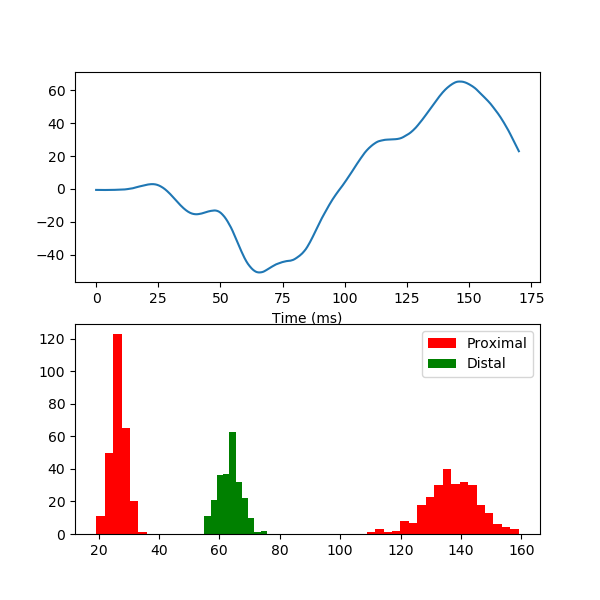
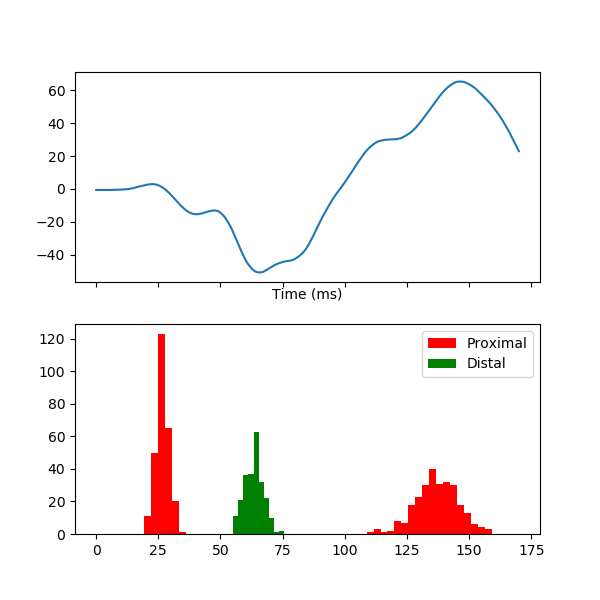
Make install

diff --git a/searchindex.js b/searchindex.js
@@ -1,1 +1,1 @@
-Search.setIndex({docnames:["api","auto_examples/index","auto_examples/plot_simulate_alpha","auto_examples/plot_simulate_evoked","generated/mne_neuron.Network","generated/mne_neuron.params.Params","generated/mne_neuron.simulate_dipole","index"],envversion:55,filenames:["api.rst","auto_examples/index.rst","auto_examples/plot_simulate_alpha.rst","auto_examples/plot_simulate_evoked.rst","generated/mne_neuron.Network.rst","generated/mne_neuron.params.Params.rst","generated/mne_neuron.simulate_dipole.rst","index.rst"],objects:{"mne_neuron.Network":{aggregate_currents:[4,1,1,""],gid_to_type:[4,1,1,""],movecellstopos:[4,1,1,""],plot_input:[4,1,1,""],plot_spikes:[4,1,1,""],state_init:[4,1,1,""]},"mne_neuron.params":{Params:[5,0,1,""]},"mne_neuron.params.Params":{__getitem__:[5,1,1,""],__repr__:[5,1,1,""],copy:[5,1,1,""]},mne_neuron:{Network:[4,0,1,""],simulate_dipole:[6,2,1,""]}},objnames:{"0":["py","class","Python class"],"1":["py","method","Python method"],"2":["py","function","Python function"]},objtypes:{"0":"py:class","1":"py:method","2":"py:function"},terms:{"26e":[2,3],"class":[4,5],"default":[2,3],"final":[3,7],"import":[2,3,7],"new":4,"return":[4,5,6],"true":4,And:2,Jas:[2,3],The:[4,5,6],Then:[2,3],Use:7,__create_all_src:[],__file__:[2,3],__getitem__:5,__gid_assign:[],__init__:[],__repr__:5,_biophys:[],activ:[2,4],addition:7,admin:7,agg:2,aggregate_curr:4,all:[1,2],alpha:1,also:3,anaconda:7,ani:7,api:7,append:[],argument:[],author:[2,3],auto_examples_jupyt:1,auto_examples_python:1,avail:7,axes:3,axi:[2,4],base:7,baselin:4,basket:[],bool:4,call:[],can:[2,3,7],cell:[4,6],celsiu:[2,3],channel:7,charact:3,check:7,cleaner:7,click:[2,3],closer:4,code:[1,2,3,7],com:[2,3,7],compil:7,comput:7,conda:7,conduct:2,confirm:2,connect:6,contributor:7,copi:5,creat:[4,7],custom:7,demonstr:[2,3],densiti:[],depend:[],desktop:[],dict:4,dipol:[1,2,6],dipole_scalefctr:[2,3],dipole_smooth_win:[2,3],directori:[2,3,7],dirnam:[2,3],displai:5,distribut:7,distribution_dist:[2,3],distribution_prox:[2,3],download:[1,2,3],dpl:[2,3,6],dt_evprox0_evdist:[2,3],dt_evprox0_evprox1:[2,3],each:4,earli:7,edu:7,error:7,events_per_cycle_dist:[2,3],events_per_cycle_prox:[2,3],everyth:7,evok:3,exampl:[1,2,3],experi:6,f_input_dist:[2,3],f_input_prox:[2,3],f_max_spec:[2,3],f_stdev_dist:[2,3],f_stdev_prox:[2,3],few:2,fig:[3,4],figsiz:3,figur:4,file:[2,3,5],filter:3,fine:7,first:7,flag:7,freq:2,frequenc:2,from:[2,3,4,7],full:[2,3],galleri:[1,2,3],gbar:2,gbar_ev:2,gbar_evdist_1_l2basket_ampa:[2,3],gbar_evdist_1_l2basket_nmda:[2,3],gbar_evdist_1_l2pyr_ampa:[2,3],gbar_evdist_1_l2pyr_nmda:[2,3],gbar_evdist_1_l5pyr_ampa:[2,3],gbar_evdist_1_l5pyr_nmda:[2,3],gbar_evprox_1_l2basket_ampa:[2,3],gbar_evprox_1_l2basket_nmda:[2,3],gbar_evprox_1_l2pyr_ampa:[2,3],gbar_evprox_1_l2pyr_nmda:[2,3],gbar_evprox_1_l5basket_ampa:[2,3],gbar_evprox_1_l5basket_nmda:[2,3],gbar_evprox_1_l5pyr_ampa:[2,3],gbar_evprox_1_l5pyr_nmda:[2,3],gbar_evprox_2_l2basket_ampa:[2,3],gbar_evprox_2_l2basket_nmda:[2,3],gbar_evprox_2_l2pyr_ampa:[2,3],gbar_evprox_2_l2pyr_nmda:[2,3],gbar_evprox_2_l5basket_ampa:[2,3],gbar_evprox_2_l5basket_nmda:[2,3],gbar_evprox_2_l5pyr_ampa:[2,3],gbar_evprox_2_l5pyr_nmda:[2,3],gbar_l2basket_l2basket:[2,3],gbar_l2basket_l2pyr_gabaa:[2,3],gbar_l2basket_l2pyr_gabab:[2,3],gbar_l2basket_l5pyr:[2,3],gbar_l2pyr_l2basket:[2,3],gbar_l2pyr_l2pyr_ampa:[2,3],gbar_l2pyr_l2pyr_nmda:[2,3],gbar_l2pyr_l5basket:[2,3],gbar_l2pyr_l5pyr:[2,3],gbar_l5basket_l5basket:[2,3],gbar_l5basket_l5pyr_gabaa:[2,3],gbar_l5basket_l5pyr_gabab:[2,3],gbar_l5pyr_l5basket:[2,3],gbar_l5pyr_l5pyr_ampa:[2,3],gbar_l5pyr_l5pyr_nmda:[2,3],gener:[1,2,3],get_vsoma:4,gid:4,gid_to_typ:4,github:7,github_repo:[],give:7,given:6,gmail:[2,3],graphic:7,ham:2,handl:4,have:7,here:[2,3,7],hh2:[],histogram:4,hnn:7,hoc:[2,3],home:[],how:[2,3,6],howev:7,http:7,inc_evinput:[2,3],inde:2,initi:4,input:[2,4],input_dist_a_delay_l2:[2,3],input_dist_a_delay_l5:[2,3],input_dist_a_weight_l2basket_ampa:[2,3],input_dist_a_weight_l2basket_nmda:[2,3],input_dist_a_weight_l2pyr_ampa:[2,3],input_dist_a_weight_l2pyr_nmda:[2,3],input_dist_a_weight_l5pyr_ampa:[2,3],input_dist_a_weight_l5pyr_nmda:[2,3],input_prox_a_delay_l2:[2,3],input_prox_a_delay_l5:[2,3],input_prox_a_weight_l2basket_ampa:[2,3],input_prox_a_weight_l2basket_nmda:[2,3],input_prox_a_weight_l2pyr_ampa:[2,3],input_prox_a_weight_l2pyr_nmda:[2,3],input_prox_a_weight_l5basket_ampa:[2,3],input_prox_a_weight_l5basket_nmda:[2,3],input_prox_a_weight_l5pyr_ampa:[2,3],input_prox_a_weight_l5pyr_nmda:[2,3],insert:[],instanc:[4,6],instruct:7,integr:4,interfac:7,ionic:7,ipynb:[2,3],issu:7,itonic_a_l2basket:[2,3],itonic_a_l2pyr_soma:[2,3],itonic_a_l5basket:[2,3],itonic_a_l5pyr_soma:[2,3],itonic_t0_l2basket:[2,3],itonic_t0_l2pyr_soma:[2,3],itonic_t0_l5basket:[2,3],itonic_t0_l5pyr_soma:[2,3],itonic_t_l2basket:[2,3],itonic_t_l2pyr_soma:[2,3],itonic_t_l5basket:[2,3],itonic_t_l5pyr_soma:[2,3],its:7,jas:[2,3],jasmainak:7,join:[2,3],json:[2,3,5],jupyt:[1,2,3],kei:5,l2basket:[],l2basket_gauss_a_weight:[2,3],l2basket_gauss_mu:[2,3],l2basket_gauss_sigma:[2,3],l2basket_pois_a_weight_ampa:[2,3],l2basket_pois_a_weight_nmda:[2,3],l2basket_pois_lamtha:[2,3],l2pyr_ampa_:[2,3],l2pyr_ampa_tau1:[2,3],l2pyr_ampa_tau2:[2,3],l2pyr_apical1_diam:[2,3],l2pyr_apical1_l:[2,3],l2pyr_apicaloblique_diam:[2,3],l2pyr_apicaloblique_l:[2,3],l2pyr_apicaltrunk_diam:[2,3],l2pyr_apicaltrunk_l:[2,3],l2pyr_apicaltuft_diam:[2,3],l2pyr_apicaltuft_l:[2,3],l2pyr_basal1_diam:[2,3],l2pyr_basal1_l:[2,3],l2pyr_basal2_diam:[2,3],l2pyr_basal2_l:[2,3],l2pyr_basal3_diam:[2,3],l2pyr_basal3_l:[2,3],l2pyr_dend_cm:[2,3],l2pyr_dend_el_hh2:[2,3],l2pyr_dend_gbar_km:[2,3],l2pyr_dend_gkbar_hh2:[2,3],l2pyr_dend_gl_hh2:[2,3],l2pyr_dend_gnabar_hh2:[2,3],l2pyr_dend_ra:[2,3],l2pyr_gabaa_:[2,3],l2pyr_gabaa_tau1:[2,3],l2pyr_gabaa_tau2:[2,3],l2pyr_gabab_:[2,3],l2pyr_gabab_tau1:[2,3],l2pyr_gabab_tau2:[2,3],l2pyr_gauss_a_weight:[2,3],l2pyr_gauss_mu:[2,3],l2pyr_gauss_sigma:[2,3],l2pyr_nmda_:[2,3],l2pyr_nmda_tau1:[2,3],l2pyr_nmda_tau2:[2,3],l2pyr_pois_a_weight_ampa:[2,3],l2pyr_pois_a_weight_nmda:[2,3],l2pyr_pois_lamtha:[2,3],l2pyr_soma:3,l2pyr_soma_cm:[2,3],l2pyr_soma_diam:[2,3],l2pyr_soma_el_hh2:[2,3],l2pyr_soma_gbar_km:[2,3],l2pyr_soma_gkbar_hh2:[2,3],l2pyr_soma_gl_hh2:[2,3],l2pyr_soma_gnabar_hh2:[2,3],l2pyr_soma_l:[2,3],l2pyr_soma_ra:[2,3],l5basket_gauss_a_weight:[2,3],l5basket_gauss_mu:[2,3],l5basket_gauss_sigma:[2,3],l5basket_pois_a_weight_ampa:[2,3],l5basket_pois_a_weight_nmda:[2,3],l5basket_pois_lamtha:[2,3],l5pyr_ampa_:[2,3],l5pyr_ampa_tau1:[2,3],l5pyr_ampa_tau2:[2,3],l5pyr_apical1_diam:[2,3],l5pyr_apical1_l:[2,3],l5pyr_apical2_diam:[2,3],l5pyr_apical2_l:[2,3],l5pyr_apicaloblique_diam:[2,3],l5pyr_apicaloblique_l:[2,3],l5pyr_apicaltrunk_diam:[2,3],l5pyr_apicaltrunk_l:[2,3],l5pyr_apicaltuft_diam:[2,3],l5pyr_apicaltuft_l:[2,3],l5pyr_basal1_diam:[2,3],l5pyr_basal1_l:[2,3],l5pyr_basal2_diam:[2,3],l5pyr_basal2_l:[2,3],l5pyr_basal3_diam:[2,3],l5pyr_basal3_l:[2,3],l5pyr_dend_cm:[2,3],l5pyr_dend_el_hh2:[2,3],l5pyr_dend_gbar_ar:[2,3],l5pyr_dend_gbar_ca:[2,3],l5pyr_dend_gbar_cat:[2,3],l5pyr_dend_gbar_kca:[2,3],l5pyr_dend_gbar_km:[2,3],l5pyr_dend_gkbar_hh2:[2,3],l5pyr_dend_gl_hh2:[2,3],l5pyr_dend_gnabar_hh2:[2,3],l5pyr_dend_ra:[2,3],l5pyr_dend_taur_cad:[2,3],l5pyr_gabaa_:[2,3],l5pyr_gabaa_tau1:[2,3],l5pyr_gabaa_tau2:[2,3],l5pyr_gabab_:[2,3],l5pyr_gabab_tau1:[2,3],l5pyr_gabab_tau2:[2,3],l5pyr_gauss_a_weight:[2,3],l5pyr_gauss_mu:[2,3],l5pyr_gauss_sigma:[2,3],l5pyr_nmda_:[2,3],l5pyr_nmda_tau1:[2,3],l5pyr_nmda_tau2:[2,3],l5pyr_pois_a_weight_ampa:[2,3],l5pyr_pois_a_weight_nmda:[2,3],l5pyr_pois_lamtha:[2,3],l5pyr_soma_cm:[2,3],l5pyr_soma_diam:[2,3],l5pyr_soma_el_hh2:[2,3],l5pyr_soma_gbar_ar:[2,3],l5pyr_soma_gbar_ca:[2,3],l5pyr_soma_gbar_cat:[2,3],l5pyr_soma_gbar_kca:[2,3],l5pyr_soma_gbar_km:[2,3],l5pyr_soma_gkbar_hh2:[2,3],l5pyr_soma_gl_hh2:[2,3],l5pyr_soma_gnabar_hh2:[2,3],l5pyr_soma_l:[2,3],l5pyr_soma_ra:[2,3],l5pyr_soma_taur_cad:[2,3],last:[],latest:7,leaner:7,let:[2,3],lib:[],libnrnmech:[],like:3,line:[],load_fil:[2,3],lookup:4,lot:3,mainak:[2,3],make:7,master:7,matplotlib:[2,3,4,7],mean:2,mechan:7,messag:7,method:[4,5],minut:[2,3],mne:[2,3],mne_neuron:[0,2,3],mne_neuron_root:[2,3],modul:[],moment:7,most:[],move:4,movecellstopo:4,must:4,n_fft:2,n_pyr_i:[2,3],n_pyr_x:[2,3],n_trial:[2,3],name:[],need:7,net:[2,3,6],network:[2,3,6],networkonnod:[],neuron:[2,3],neymotin:[2,3],nfft:2,nice:5,nightli:7,node:[],none:4,normal:[2,3],notebook:[1,2,3],noverlap:2,now:[2,3],nperseg:2,nrn_load_dll:[],nrnivmodl:7,numpi:[2,7],numspikes_evdist_1:[2,3],numspikes_evprox_1:[2,3],numspikes_evprox_2:[2,3],object:[4,5,6],off:7,out:[2,3],param:[2,3,4],paramet:[2,3,4,5,6],params_fnam:[2,3,5],paristech:[2,3],path:[2,3],pattern:2,pip:7,plot:[2,3,4],plot_input:[3,4],plot_simulate_alpha:2,plot_simulate_evok:3,plot_spik:[3,4],plt:[2,3],pos:[],posit:4,post:4,print:[2,3],privileg:7,prng_seedcore_evdist_1:[2,3],prng_seedcore_evprox_1:[2,3],prng_seedcore_evprox_2:[2,3],prng_seedcore_extgauss:[2,3],prng_seedcore_extpoi:[2,3],prng_seedcore_input_dist:[2,3],prng_seedcore_input_prox:[2,3],process:7,progress:7,project:[],provid:7,psd:2,pyplot:[2,3],python:[1,2,3,7],rank:[],read:[2,3],recent:[],recommend:7,relat:2,repeats_dist:[2,3],repeats_prox:[2,3],repo:7,repositori:7,revers:4,run:[2,3,4],runtimeerror:[],sam:[2,3],samnemo:[2,3],save_fig:[2,3],save_spec_data:[2,3],save_vsoma:[2,3],scipi:[2,7],script:[2,3],second:[2,3],self:[],set_gid2nod:[],setup:[2,3],sfreq:2,shallow:5,should:7,show:[2,4],sigma_t_evdist_1:[2,3],sigma_t_evprox_1:[2,3],sigma_t_evprox_2:[2,3],signal:2,sim_prefix:[2,3],simpl:7,simul:[0,1,6],simulate_dipol:[2,3],soma:[],sourc:[1,2,3],specif:[],specifi:6,spectrogram:2,sphinx:[1,2,3],spike:[3,4],state:4,state_init:4,stdrun:[2,3],step:7,str:5,style:3,subplot:3,subset:5,support:7,sync_evinput:[2,3],t0_input_dist:[2,3],t0_input_prox:[2,3],t0_input_stdev_dist:[2,3],t0_input_stdev_prox:[2,3],t0_poi:[2,3],t_evdist_1:[2,3],t_evprox_1:[2,3],t_evprox_2:[2,3],t_poi:[2,3],telecom:[2,3],thi:[2,3,4,7],threshold:[2,3],time:[2,3],total:[2,3],traceback:[],tracker:7,tstop:[2,3],tstop_input_dist:[2,3],tstop_input_prox:[2,3],type:4,unix:3,updat:2,upgrad:7,use:7,used:4,user:7,using:[2,3,7],valueerror:[],veri:7,version:7,want:7,wave:1,waveform:3,welcom:7,what:2,which:7,wildcard:3,window:2,wire:4,work:7,would:7,x86_64:[],xlabel:2,xlim:2,yale:7,ylabel:2,you:7,zip:1,zipbal:7},titles:["API Documentation","&lt;no title&gt;","Simulate alpha waves","Simulate dipole","mne_neuron.Network","mne_neuron.params.Params","mne_neuron.simulate_dipole","mne-neuron"],titleterms:{alpha:2,api:0,bug:7,depend:7,dipol:3,document:0,instal:7,mne:7,mne_neuron:[4,5,6],network:4,neuron:7,param:5,report:7,simul:[2,3],simulate_dipol:6,wave:2}})
+Search.setIndex({docnames:["api","auto_examples/index","auto_examples/plot_simulate_alpha","auto_examples/plot_simulate_evoked","generated/mne_neuron.Network","generated/mne_neuron.params.Params","generated/mne_neuron.simulate_dipole","index"],envversion:55,filenames:["api.rst","auto_examples/index.rst","auto_examples/plot_simulate_alpha.rst","auto_examples/plot_simulate_evoked.rst","generated/mne_neuron.Network.rst","generated/mne_neuron.params.Params.rst","generated/mne_neuron.simulate_dipole.rst","index.rst"],objects:{"mne_neuron.Network":{aggregate_currents:[4,1,1,""],gid_to_type:[4,1,1,""],movecellstopos:[4,1,1,""],plot_input:[4,1,1,""],plot_spikes:[4,1,1,""],state_init:[4,1,1,""]},"mne_neuron.params":{Params:[5,0,1,""]},"mne_neuron.params.Params":{__getitem__:[5,1,1,""],__repr__:[5,1,1,""],copy:[5,1,1,""]},mne_neuron:{Network:[4,0,1,""],simulate_dipole:[6,2,1,""]}},objnames:{"0":["py","class","Python class"],"1":["py","method","Python method"],"2":["py","function","Python function"]},objtypes:{"0":"py:class","1":"py:method","2":"py:function"},terms:{"26e":[2,3],"class":[4,5],"default":[2,3],"final":[3,7],"import":[2,3,7],"new":4,"return":[4,5,6],"true":[3,4],And:2,Jas:[2,3],The:[4,5,6],Then:[2,3],Use:7,__create_all_src:[],__file__:[2,3],__getitem__:5,__gid_assign:[],__init__:[],__repr__:5,_biophys:[],activ:[2,4],addition:7,admin:7,agg:2,aggregate_curr:4,all:[1,2],alpha:1,also:3,anaconda:7,ani:7,api:7,append:[],argument:[],author:[2,3],auto_examples_jupyt:1,auto_examples_python:1,avail:7,axes:3,axi:[2,4],base:7,baselin:4,basket:[],bool:4,call:[],can:[2,3,7],cell:[4,6],celsiu:[2,3],channel:7,charact:3,check:7,cleaner:7,click:[2,3],closer:4,code:[1,2,3,7],com:[2,3,7],compil:7,comput:7,conda:7,conduct:2,confirm:2,connect:6,contributor:7,copi:5,creat:[4,7],custom:7,demonstr:[2,3],densiti:[],depend:[],desktop:[],dict:4,dipol:[1,2,6],dipole_scalefctr:[2,3],dipole_smooth_win:[2,3],directori:[2,3,7],dirnam:[2,3],displai:5,distribut:7,distribution_dist:[2,3],distribution_prox:[2,3],download:[1,2,3],dpl:[2,3,6],dt_evprox0_evdist:[2,3],dt_evprox0_evprox1:[2,3],each:4,earli:7,edu:7,error:7,events_per_cycle_dist:[2,3],events_per_cycle_prox:[2,3],everyth:7,evok:3,exampl:[1,2,3],experi:6,f_input_dist:[2,3],f_input_prox:[2,3],f_max_spec:[2,3],f_stdev_dist:[2,3],f_stdev_prox:[2,3],few:2,fig:[3,4],figsiz:3,figur:4,file:[2,3,5],filter:3,fine:7,first:7,flag:7,freq:2,frequenc:2,from:[2,3,4,7],full:[2,3],galleri:[1,2,3],gbar:2,gbar_ev:2,gbar_evdist_1_l2basket_ampa:[2,3],gbar_evdist_1_l2basket_nmda:[2,3],gbar_evdist_1_l2pyr_ampa:[2,3],gbar_evdist_1_l2pyr_nmda:[2,3],gbar_evdist_1_l5pyr_ampa:[2,3],gbar_evdist_1_l5pyr_nmda:[2,3],gbar_evprox_1_l2basket_ampa:[2,3],gbar_evprox_1_l2basket_nmda:[2,3],gbar_evprox_1_l2pyr_ampa:[2,3],gbar_evprox_1_l2pyr_nmda:[2,3],gbar_evprox_1_l5basket_ampa:[2,3],gbar_evprox_1_l5basket_nmda:[2,3],gbar_evprox_1_l5pyr_ampa:[2,3],gbar_evprox_1_l5pyr_nmda:[2,3],gbar_evprox_2_l2basket_ampa:[2,3],gbar_evprox_2_l2basket_nmda:[2,3],gbar_evprox_2_l2pyr_ampa:[2,3],gbar_evprox_2_l2pyr_nmda:[2,3],gbar_evprox_2_l5basket_ampa:[2,3],gbar_evprox_2_l5basket_nmda:[2,3],gbar_evprox_2_l5pyr_ampa:[2,3],gbar_evprox_2_l5pyr_nmda:[2,3],gbar_l2basket_l2basket:[2,3],gbar_l2basket_l2pyr_gabaa:[2,3],gbar_l2basket_l2pyr_gabab:[2,3],gbar_l2basket_l5pyr:[2,3],gbar_l2pyr_l2basket:[2,3],gbar_l2pyr_l2pyr_ampa:[2,3],gbar_l2pyr_l2pyr_nmda:[2,3],gbar_l2pyr_l5basket:[2,3],gbar_l2pyr_l5pyr:[2,3],gbar_l5basket_l5basket:[2,3],gbar_l5basket_l5pyr_gabaa:[2,3],gbar_l5basket_l5pyr_gabab:[2,3],gbar_l5pyr_l5basket:[2,3],gbar_l5pyr_l5pyr_ampa:[2,3],gbar_l5pyr_l5pyr_nmda:[2,3],gener:[1,2,3],get_vsoma:4,gid:4,gid_to_typ:4,github:7,github_repo:[],give:7,given:6,gmail:[2,3],graphic:7,ham:2,handl:4,have:7,here:[2,3,7],hh2:[],histogram:4,hnn:7,hoc:[2,3],home:[],how:[2,3,6],howev:7,http:7,inc_evinput:[2,3],inde:2,initi:4,input:[2,4],input_dist_a_delay_l2:[2,3],input_dist_a_delay_l5:[2,3],input_dist_a_weight_l2basket_ampa:[2,3],input_dist_a_weight_l2basket_nmda:[2,3],input_dist_a_weight_l2pyr_ampa:[2,3],input_dist_a_weight_l2pyr_nmda:[2,3],input_dist_a_weight_l5pyr_ampa:[2,3],input_dist_a_weight_l5pyr_nmda:[2,3],input_prox_a_delay_l2:[2,3],input_prox_a_delay_l5:[2,3],input_prox_a_weight_l2basket_ampa:[2,3],input_prox_a_weight_l2basket_nmda:[2,3],input_prox_a_weight_l2pyr_ampa:[2,3],input_prox_a_weight_l2pyr_nmda:[2,3],input_prox_a_weight_l5basket_ampa:[2,3],input_prox_a_weight_l5basket_nmda:[2,3],input_prox_a_weight_l5pyr_ampa:[2,3],input_prox_a_weight_l5pyr_nmda:[2,3],insert:[],instanc:[4,6],instruct:7,integr:4,interfac:7,ionic:7,ipynb:[2,3],issu:7,itonic_a_l2basket:[2,3],itonic_a_l2pyr_soma:[2,3],itonic_a_l5basket:[2,3],itonic_a_l5pyr_soma:[2,3],itonic_t0_l2basket:[2,3],itonic_t0_l2pyr_soma:[2,3],itonic_t0_l5basket:[2,3],itonic_t0_l5pyr_soma:[2,3],itonic_t_l2basket:[2,3],itonic_t_l2pyr_soma:[2,3],itonic_t_l5basket:[2,3],itonic_t_l5pyr_soma:[2,3],its:7,jas:[2,3],jasmainak:7,join:[2,3],json:[2,3,5],jupyt:[1,2,3],kei:5,l2basket:[],l2basket_gauss_a_weight:[2,3],l2basket_gauss_mu:[2,3],l2basket_gauss_sigma:[2,3],l2basket_pois_a_weight_ampa:[2,3],l2basket_pois_a_weight_nmda:[2,3],l2basket_pois_lamtha:[2,3],l2pyr_ampa_:[2,3],l2pyr_ampa_tau1:[2,3],l2pyr_ampa_tau2:[2,3],l2pyr_apical1_diam:[2,3],l2pyr_apical1_l:[2,3],l2pyr_apicaloblique_diam:[2,3],l2pyr_apicaloblique_l:[2,3],l2pyr_apicaltrunk_diam:[2,3],l2pyr_apicaltrunk_l:[2,3],l2pyr_apicaltuft_diam:[2,3],l2pyr_apicaltuft_l:[2,3],l2pyr_basal1_diam:[2,3],l2pyr_basal1_l:[2,3],l2pyr_basal2_diam:[2,3],l2pyr_basal2_l:[2,3],l2pyr_basal3_diam:[2,3],l2pyr_basal3_l:[2,3],l2pyr_dend_cm:[2,3],l2pyr_dend_el_hh2:[2,3],l2pyr_dend_gbar_km:[2,3],l2pyr_dend_gkbar_hh2:[2,3],l2pyr_dend_gl_hh2:[2,3],l2pyr_dend_gnabar_hh2:[2,3],l2pyr_dend_ra:[2,3],l2pyr_gabaa_:[2,3],l2pyr_gabaa_tau1:[2,3],l2pyr_gabaa_tau2:[2,3],l2pyr_gabab_:[2,3],l2pyr_gabab_tau1:[2,3],l2pyr_gabab_tau2:[2,3],l2pyr_gauss_a_weight:[2,3],l2pyr_gauss_mu:[2,3],l2pyr_gauss_sigma:[2,3],l2pyr_nmda_:[2,3],l2pyr_nmda_tau1:[2,3],l2pyr_nmda_tau2:[2,3],l2pyr_pois_a_weight_ampa:[2,3],l2pyr_pois_a_weight_nmda:[2,3],l2pyr_pois_lamtha:[2,3],l2pyr_soma:3,l2pyr_soma_cm:[2,3],l2pyr_soma_diam:[2,3],l2pyr_soma_el_hh2:[2,3],l2pyr_soma_gbar_km:[2,3],l2pyr_soma_gkbar_hh2:[2,3],l2pyr_soma_gl_hh2:[2,3],l2pyr_soma_gnabar_hh2:[2,3],l2pyr_soma_l:[2,3],l2pyr_soma_ra:[2,3],l5basket_gauss_a_weight:[2,3],l5basket_gauss_mu:[2,3],l5basket_gauss_sigma:[2,3],l5basket_pois_a_weight_ampa:[2,3],l5basket_pois_a_weight_nmda:[2,3],l5basket_pois_lamtha:[2,3],l5pyr_ampa_:[2,3],l5pyr_ampa_tau1:[2,3],l5pyr_ampa_tau2:[2,3],l5pyr_apical1_diam:[2,3],l5pyr_apical1_l:[2,3],l5pyr_apical2_diam:[2,3],l5pyr_apical2_l:[2,3],l5pyr_apicaloblique_diam:[2,3],l5pyr_apicaloblique_l:[2,3],l5pyr_apicaltrunk_diam:[2,3],l5pyr_apicaltrunk_l:[2,3],l5pyr_apicaltuft_diam:[2,3],l5pyr_apicaltuft_l:[2,3],l5pyr_basal1_diam:[2,3],l5pyr_basal1_l:[2,3],l5pyr_basal2_diam:[2,3],l5pyr_basal2_l:[2,3],l5pyr_basal3_diam:[2,3],l5pyr_basal3_l:[2,3],l5pyr_dend_cm:[2,3],l5pyr_dend_el_hh2:[2,3],l5pyr_dend_gbar_ar:[2,3],l5pyr_dend_gbar_ca:[2,3],l5pyr_dend_gbar_cat:[2,3],l5pyr_dend_gbar_kca:[2,3],l5pyr_dend_gbar_km:[2,3],l5pyr_dend_gkbar_hh2:[2,3],l5pyr_dend_gl_hh2:[2,3],l5pyr_dend_gnabar_hh2:[2,3],l5pyr_dend_ra:[2,3],l5pyr_dend_taur_cad:[2,3],l5pyr_gabaa_:[2,3],l5pyr_gabaa_tau1:[2,3],l5pyr_gabaa_tau2:[2,3],l5pyr_gabab_:[2,3],l5pyr_gabab_tau1:[2,3],l5pyr_gabab_tau2:[2,3],l5pyr_gauss_a_weight:[2,3],l5pyr_gauss_mu:[2,3],l5pyr_gauss_sigma:[2,3],l5pyr_nmda_:[2,3],l5pyr_nmda_tau1:[2,3],l5pyr_nmda_tau2:[2,3],l5pyr_pois_a_weight_ampa:[2,3],l5pyr_pois_a_weight_nmda:[2,3],l5pyr_pois_lamtha:[2,3],l5pyr_soma_cm:[2,3],l5pyr_soma_diam:[2,3],l5pyr_soma_el_hh2:[2,3],l5pyr_soma_gbar_ar:[2,3],l5pyr_soma_gbar_ca:[2,3],l5pyr_soma_gbar_cat:[2,3],l5pyr_soma_gbar_kca:[2,3],l5pyr_soma_gbar_km:[2,3],l5pyr_soma_gkbar_hh2:[2,3],l5pyr_soma_gl_hh2:[2,3],l5pyr_soma_gnabar_hh2:[2,3],l5pyr_soma_l:[2,3],l5pyr_soma_ra:[2,3],l5pyr_soma_taur_cad:[2,3],last:[],latest:7,leaner:7,let:[2,3],lib:[],libnrnmech:[],like:3,line:[],load_fil:[2,3],lookup:4,lot:3,mainak:[2,3],make:7,master:7,matplotlib:[2,3,4,7],mean:2,mechan:7,messag:7,method:[4,5],minut:[2,3],mne:[2,3],mne_neuron:[0,2,3],mne_neuron_root:[2,3],modul:[],moment:7,most:[],move:4,movecellstopo:4,must:4,n_fft:2,n_pyr_i:[2,3],n_pyr_x:[2,3],n_trial:[2,3],name:[],need:7,net:[2,3,6],network:[2,3,6],networkonnod:[],neuron:[2,3],neymotin:[2,3],nfft:2,nice:5,nightli:7,node:[],none:4,normal:[2,3],notebook:[1,2,3],noverlap:2,now:[2,3],nperseg:2,nrn_load_dll:[],nrnivmodl:7,numpi:[2,7],numspikes_evdist_1:[2,3],numspikes_evprox_1:[2,3],numspikes_evprox_2:[2,3],object:[4,5,6],off:7,out:[2,3],param:[2,3,4],paramet:[2,3,4,5,6],params_fnam:[2,3,5],paristech:[2,3],path:[2,3],pattern:2,pip:7,plot:[2,3,4],plot_input:[3,4],plot_simulate_alpha:2,plot_simulate_evok:3,plot_spik:[3,4],plt:[2,3],pos:[],posit:4,post:4,print:[2,3],privileg:7,prng_seedcore_evdist_1:[2,3],prng_seedcore_evprox_1:[2,3],prng_seedcore_evprox_2:[2,3],prng_seedcore_extgauss:[2,3],prng_seedcore_extpoi:[2,3],prng_seedcore_input_dist:[2,3],prng_seedcore_input_prox:[2,3],process:7,progress:7,project:[],provid:7,psd:2,pyplot:[2,3],python:[1,2,3,7],rank:[],read:[2,3],recent:[],recommend:7,relat:2,repeats_dist:[2,3],repeats_prox:[2,3],repo:7,repositori:7,revers:4,run:[2,3,4],runtimeerror:[],sam:[2,3],samnemo:[2,3],save_fig:[2,3],save_spec_data:[2,3],save_vsoma:[2,3],scipi:[2,7],script:[2,3],second:[2,3],self:[],set_gid2nod:[],setup:[2,3],sfreq:2,shallow:5,sharex:3,should:7,show:[2,4],sigma_t_evdist_1:[2,3],sigma_t_evprox_1:[2,3],sigma_t_evprox_2:[2,3],signal:2,sim_prefix:[2,3],simpl:7,simul:[0,1,6],simulate_dipol:[2,3],soma:[],sourc:[1,2,3],specif:[],specifi:6,spectrogram:2,sphinx:[1,2,3],spike:[3,4],state:4,state_init:4,stdrun:[2,3],step:7,str:5,style:3,subplot:3,subset:5,support:7,sync_evinput:[2,3],t0_input_dist:[2,3],t0_input_prox:[2,3],t0_input_stdev_dist:[2,3],t0_input_stdev_prox:[2,3],t0_poi:[2,3],t_evdist_1:[2,3],t_evprox_1:[2,3],t_evprox_2:[2,3],t_poi:[2,3],telecom:[2,3],thi:[2,3,4,7],threshold:[2,3],time:[2,3],total:[2,3],traceback:[],tracker:7,tstop:[2,3],tstop_input_dist:[2,3],tstop_input_prox:[2,3],type:4,unix:3,updat:2,upgrad:7,use:7,used:4,user:7,using:[2,3,7],valueerror:[],veri:7,version:7,want:7,wave:1,waveform:3,welcom:7,what:2,which:7,wildcard:3,window:2,wire:4,work:7,would:7,x86_64:[],xlabel:2,xlim:2,yale:7,ylabel:2,you:7,zip:1,zipbal:7},titles:["API Documentation","&lt;no title&gt;","Simulate alpha waves","Simulate dipole","mne_neuron.Network","mne_neuron.params.Params","mne_neuron.simulate_dipole","mne-neuron"],titleterms:{alpha:2,api:0,bug:7,depend:7,dipol:3,document:0,instal:7,mne:7,mne_neuron:[4,5,6],network:4,neuron:7,param:5,report:7,simul:[2,3],simulate_dipol:6,wave:2}})

diff --git a/auto_examples/plot_simulate_evoked.html b/auto_examples/plot_simulate_evoked.html
@@ -425,7 +425,7 @@ Simulation time: 160.0 ms...
 </div>
 <p>and then plot it</p>
 <div class="highlight-python notranslate"><div class="highlight"><pre><span></span><span class="kn">import</span> <span class="nn">matplotlib.pyplot</span> <span class="kn">as</span> <span class="nn">plt</span>
-<span class="n">fig</span><span class="p">,</span> <span class="n">axes</span> <span class="o">=</span> <span class="n">plt</span><span class="o">.</span><span class="n">subplots</span><span class="p">(</span><span class="mi">2</span><span class="p">,</span> <span class="mi">1</span><span class="p">,</span> <span class="n">figsize</span><span class="o">=</span><span class="p">(</span><span class="mi">6</span><span class="p">,</span> <span class="mi">6</span><span class="p">))</span>
+<span class="n">fig</span><span class="p">,</span> <span class="n">axes</span> <span class="o">=</span> <span class="n">plt</span><span class="o">.</span><span class="n">subplots</span><span class="p">(</span><span class="mi">2</span><span class="p">,</span> <span class="mi">1</span><span class="p">,</span> <span class="n">sharex</span><span class="o">=</span><span class="bp">True</span><span class="p">,</span> <span class="n">figsize</span><span class="o">=</span><span class="p">(</span><span class="mi">6</span><span class="p">,</span> <span class="mi">6</span><span class="p">))</span>
 <span class="n">dpl</span><span class="o">.</span><span class="n">plot</span><span class="p">(</span><span class="n">ax</span><span class="o">=</span><span class="n">axes</span><span class="p">[</span><span class="mi">0</span><span class="p">])</span>
 <span class="n">net</span><span class="o">.</span><span class="n">plot_input</span><span class="p">(</span><span class="n">ax</span><span class="o">=</span><span class="n">axes</span><span class="p">[</span><span class="mi">1</span><span class="p">])</span>
 </pre></div>
@@ -436,7 +436,7 @@ Simulation time: 160.0 ms...
 </pre></div>
 </div>
 <img alt="../_images/sphx_glr_plot_simulate_evoked_002.png" class="sphx-glr-single-img" src="../_images/sphx_glr_plot_simulate_evoked_002.png" />
-<p><strong>Total running time of the script:</strong> ( 1 minutes  3.309 seconds)</p>
+<p><strong>Total running time of the script:</strong> ( 1 minutes  5.054 seconds)</p>
 <div class="sphx-glr-footer class sphx-glr-footer-example docutils container" id="sphx-glr-download-auto-examples-plot-simulate-evoked-py">
 <div class="sphx-glr-download docutils container">
 <a class="reference download internal" href="../_downloads/plot_simulate_evoked.py" download=""><code class="xref download docutils literal notranslate"><span class="pre">Download</span> <span class="pre">Python</span> <span class="pre">source</span> <span class="pre">code:</span> <span class="pre">plot_simulate_evoked.py</span></code></a></div>

diff --git a/_downloads/plot_simulate_evoked.py b/_downloads/plot_simulate_evoked.py
@@ -44,7 +44,7 @@ dpl = simulate_dipole(net)
 ###############################################################################
 # and then plot it
 import matplotlib.pyplot as plt
-fig, axes = plt.subplots(2, 1, figsize=(6, 6))
+fig, axes = plt.subplots(2, 1, sharex=True, figsize=(6, 6))
 dpl.plot(ax=axes[0])
 net.plot_input(ax=axes[1])
 ###############################################################################
